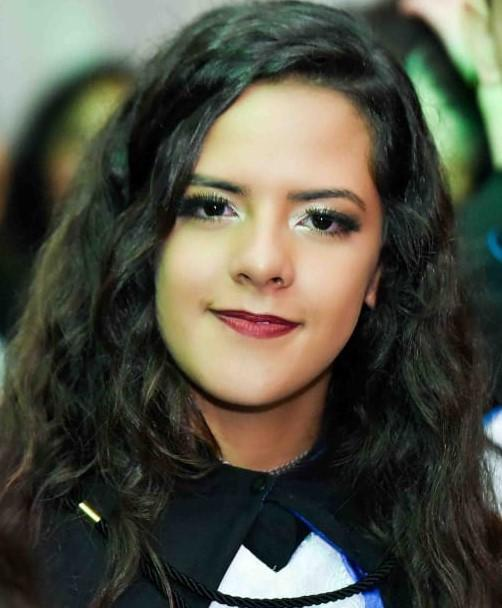
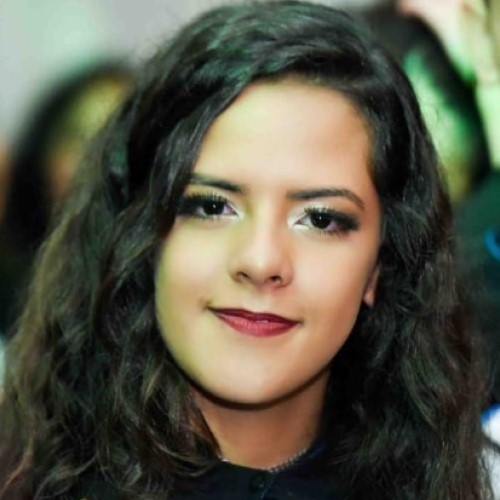
0.0.1

diff --git a/index.html b/index.html
@@ -5,8 +5,30 @@
     <meta http-equiv="X-UA-Compatible" content="IE=edge">
     <meta name="viewport" content="width=device-width, initial-scale=1.0">
     <title>inketree</title>
+    
+    <link rel="preconnect" href="https://fonts.googleapis.com">
+<link rel="preconnect" href="https://fonts.gstatic.com" crossorigin>
+<link href="https://fonts.googleapis.com/css2?family=Montserrat:ital,wght@0,100;0,200;0,300;0,400;0,500;0,600;0,700;0,800;0,900;1,100;1,200;1,300;1,400;1,500;1,600;1,700;1,800;1,900&display=swap" rel="stylesheet">
+    <link rel="stylesheet" href="css/style.css">
 </head>
 <body>
-    <img src="img/">
+    <div class="profile">
+        <img src="img/foto.jpg" alt="Foto de Eduarda Mendonça" class="avatar">
+        <h1>Eduarda Mendonça</h1>
+        <h2>Programadora Fullstack</h2>    
+    </div>
+    <div class="social">
+        <a href="">
+            <img src="img/guithub.svg" alt="Guit Hub">
+        </a>
+        <a href="">
+            <img src="img/linkedin.svg" alt="linkedin">
+        </a>
+        <a href="">
+            <img src="img/wpp.svg" alt="WhatsAp">
+        </a>
+    
+
+    </div>
 </body>
 </html>

diff --git a/css/style.css b/css/style.css
@@ -1,0 +1,35 @@
+*{
+    margin: 0;
+    padding: 0;
+}
+
+html, body{
+    height: 100%;
+}
+body{
+    color: white;
+    font-family: 'Montserrat', sans-serif;
+    background: rgb(0, 0, 0);
+    background: linear-gradient(176deg, rgb(0, 0, 0) 0%, rgb(45, 04, 82) 100%);
+}
+.avatar{
+    width: 80px;
+    border-radius: 8rem;
+    border:3px solid white;
+    box-shadow: 0 0 2rem #450482;
+}
+h1{
+    font-weight: 500;
+    margin-top: 1rem;
+    margin-bottom: 1rem;
+}
+h2{
+    font-weight: 200;
+}
+.profile{
+    margin-top: 3rem;
+    text-align: center;
+}
+.social img{
+    width: 4rem;
+}
